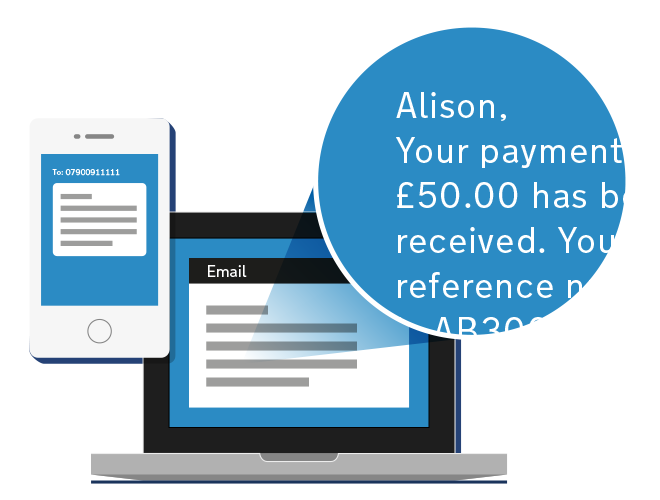
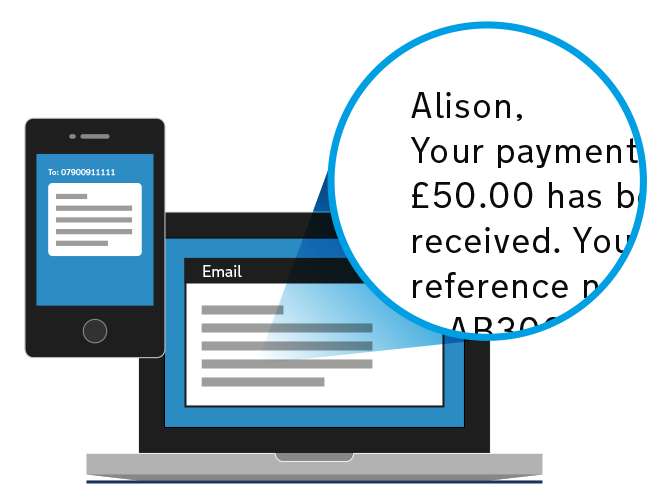
Make proposition image meet colour contrast
The message text in our previous illustration was white on light blue,
which didn’t meet WCAG AA colour contrast. WCAG AA requires a contrast
ratio of 4.5:1. The text in our image was only 3.8:1.

The text in this new image has a contrast ratio of 19.8:1, so easily
passes WCAG AAA.

Required a slight tweak to the positioning of the image because it’s
dimensions weren’t exactly the same as the previous one.

diff --git a/app/assets/stylesheets/views/product-page.scss b/app/assets/stylesheets/views/product-page.scss
@@ -16,7 +16,7 @@
         background-image: file-url('product/proposition-illustration.png');
         background-size: 320px;
         background-repeat: no-repeat;
-        background-position: right -14px top 85px;
+        background-position: right -6px top 85px;
 
         @include ie-lte(8) {
           background-image: none;
